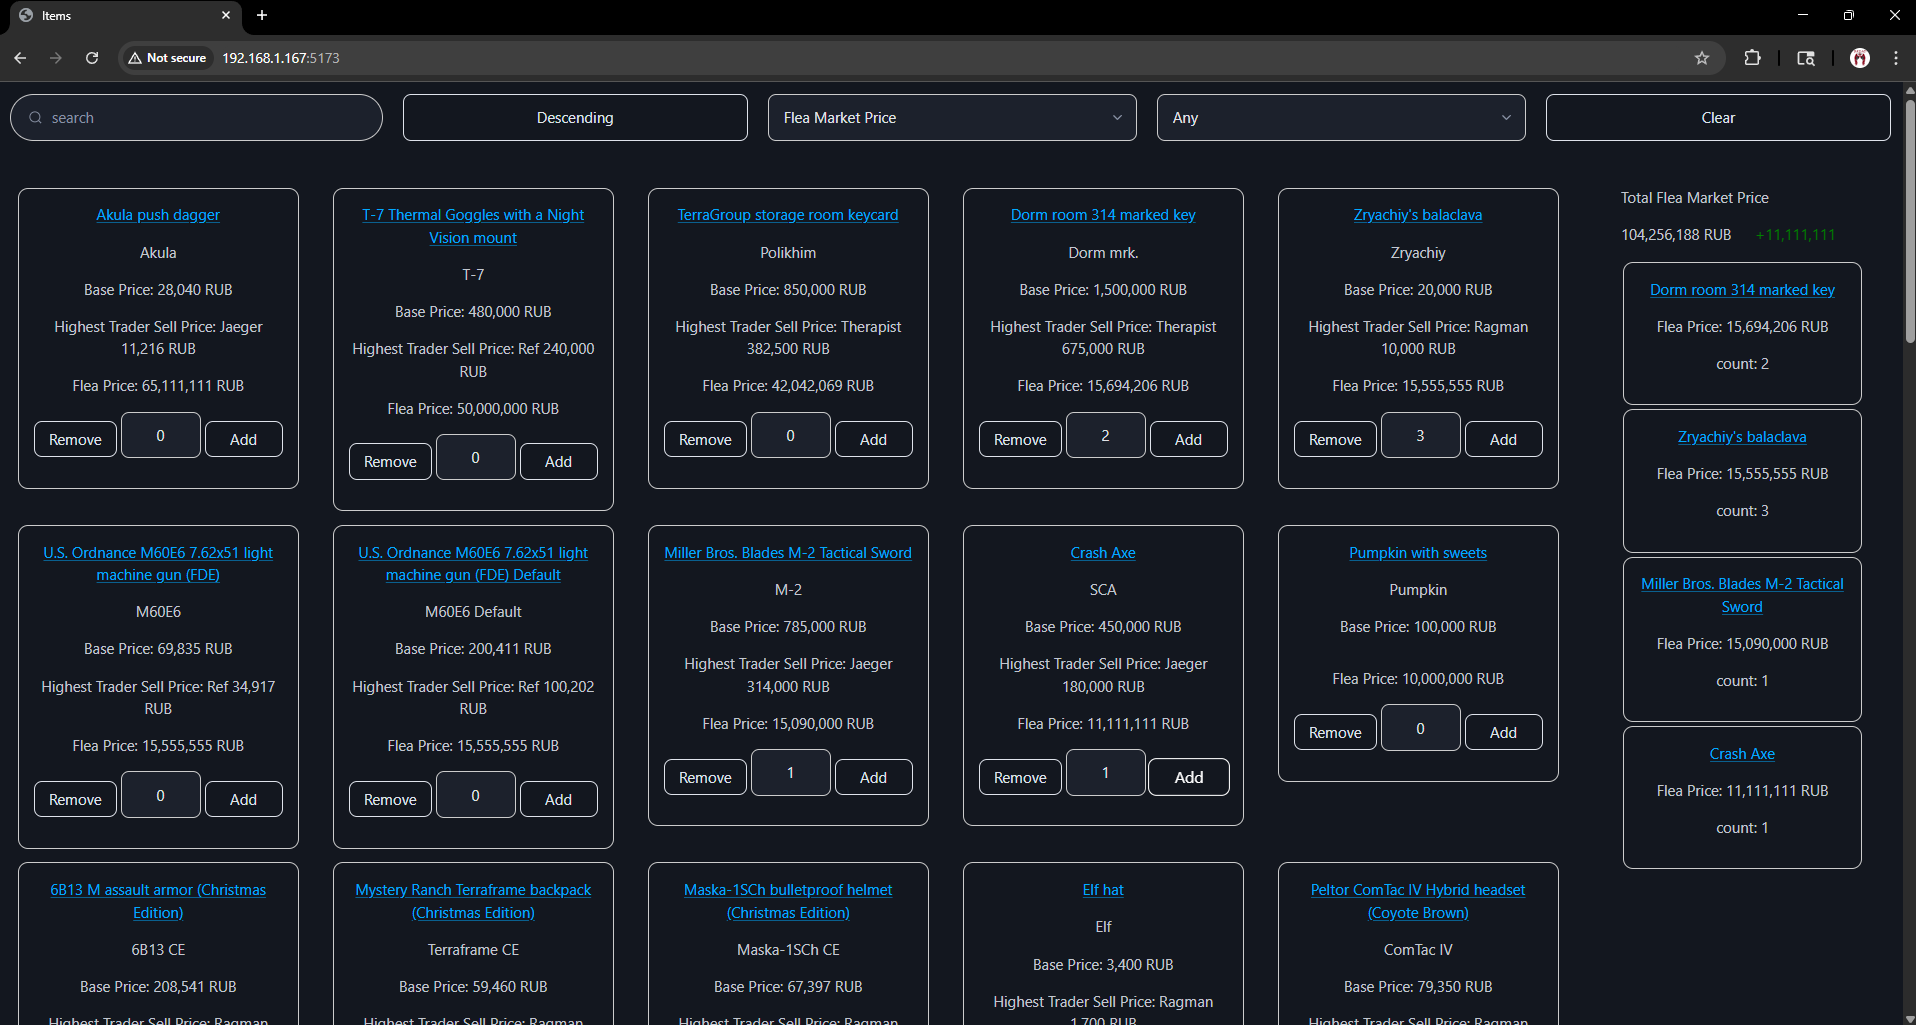
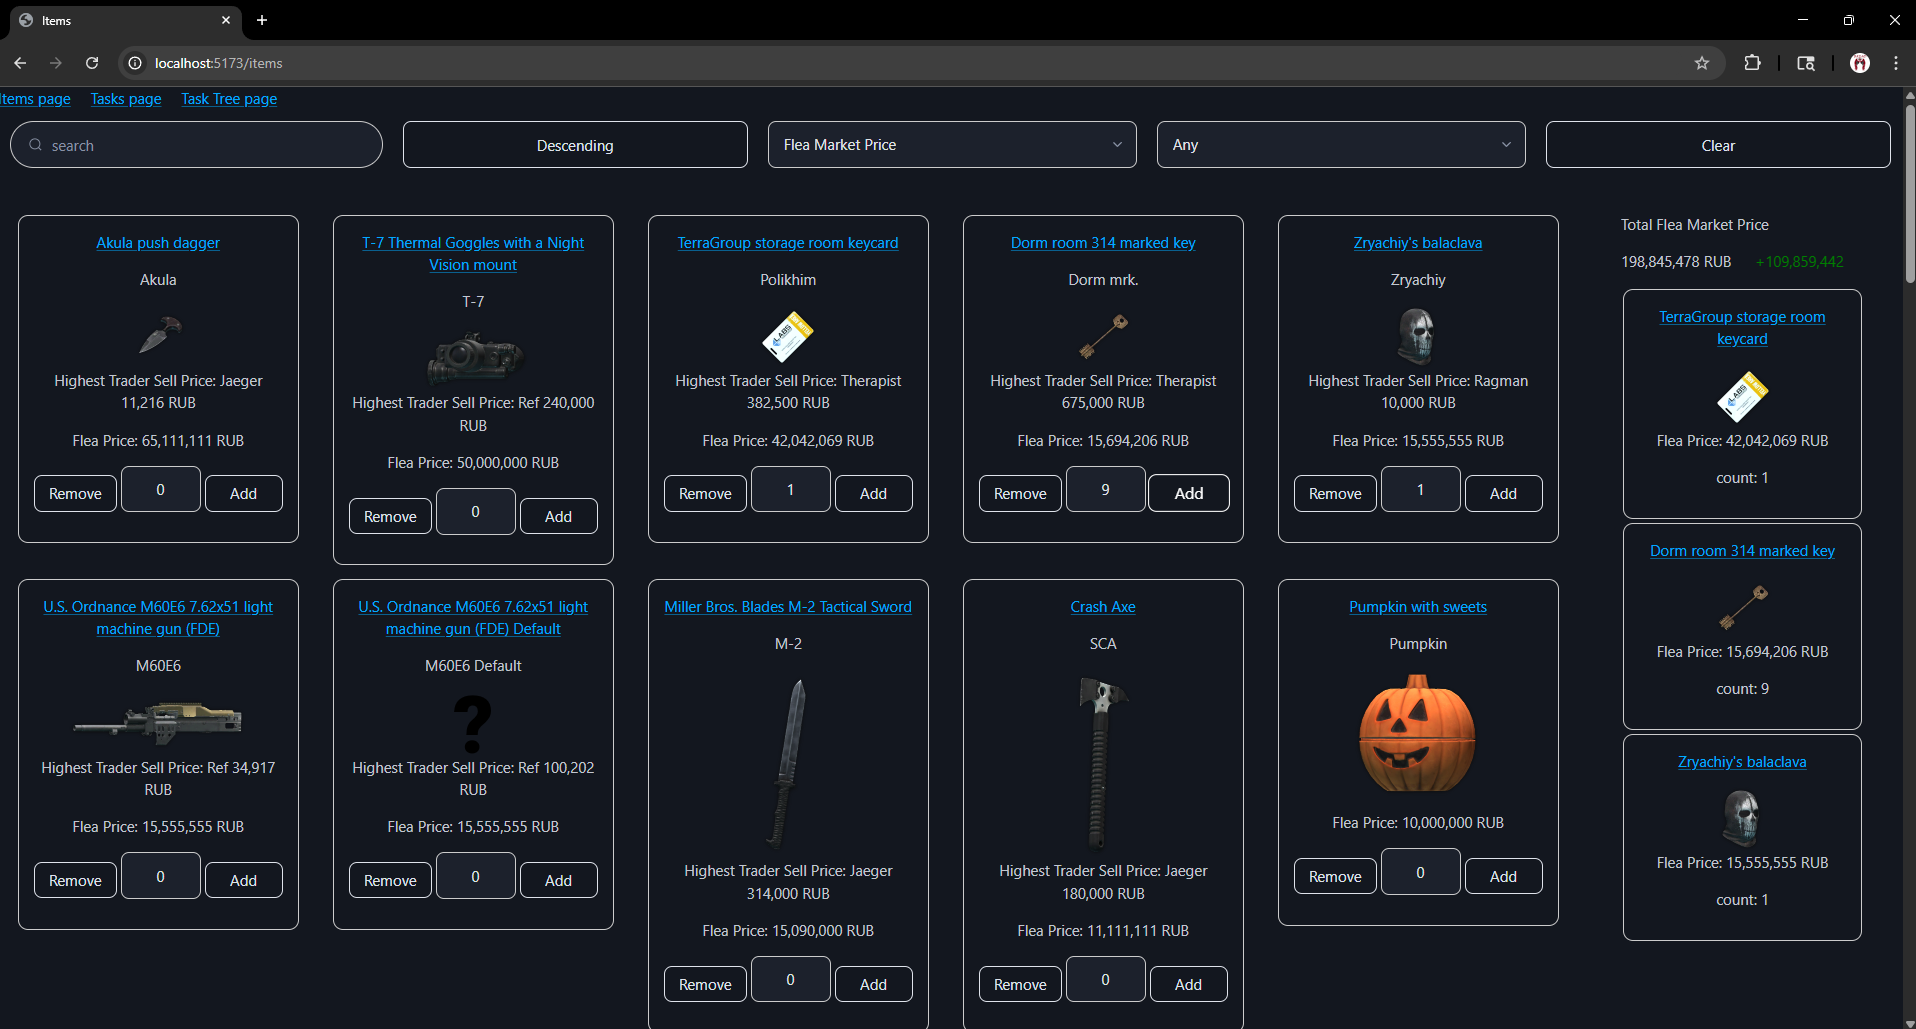
changed images on github page to show new changes

diff --git a/frontend/src/components/ItemCart.tsx b/frontend/src/components/ItemCart.tsx
@@ -115,7 +115,11 @@ function ItemCart() {
               transition={{ duration: 0.6, ease: "easeOut" }}
               style={{ listStyleType: "none", padding: 2 }}
             >
-              <ItemComponent item={x} idx={i} fields={["name", "fleaMarket"]}>
+              <ItemComponent
+                item={x}
+                idx={i}
+                fields={["name", "fleaMarket", "icon"]}
+              >
                 <p>count: {localStorage.getItem("item-" + x._id)}</p>
               </ItemComponent>
             </motion.li>

diff --git a/README.md b/README.md
@@ -8,6 +8,8 @@
 <p>all data is pulled using a GraphQL api from <a href='https://github.com/the-hideout/tarkov-api'>tarkov-api</a></p>
 <p>grabbed icons from <a href="https://github.com/RatScanner/RatScannerData">RatScannerData</a></p>
 
+<h2>TaskTree Page</h2>
+<img src=".\image previews\TaskTree_example.png">
 <h2>DisplayItems Page</h2>
 <img src=".\image previews\DisplayItems_example.png">
 <h2>ItemView Page</h2>
